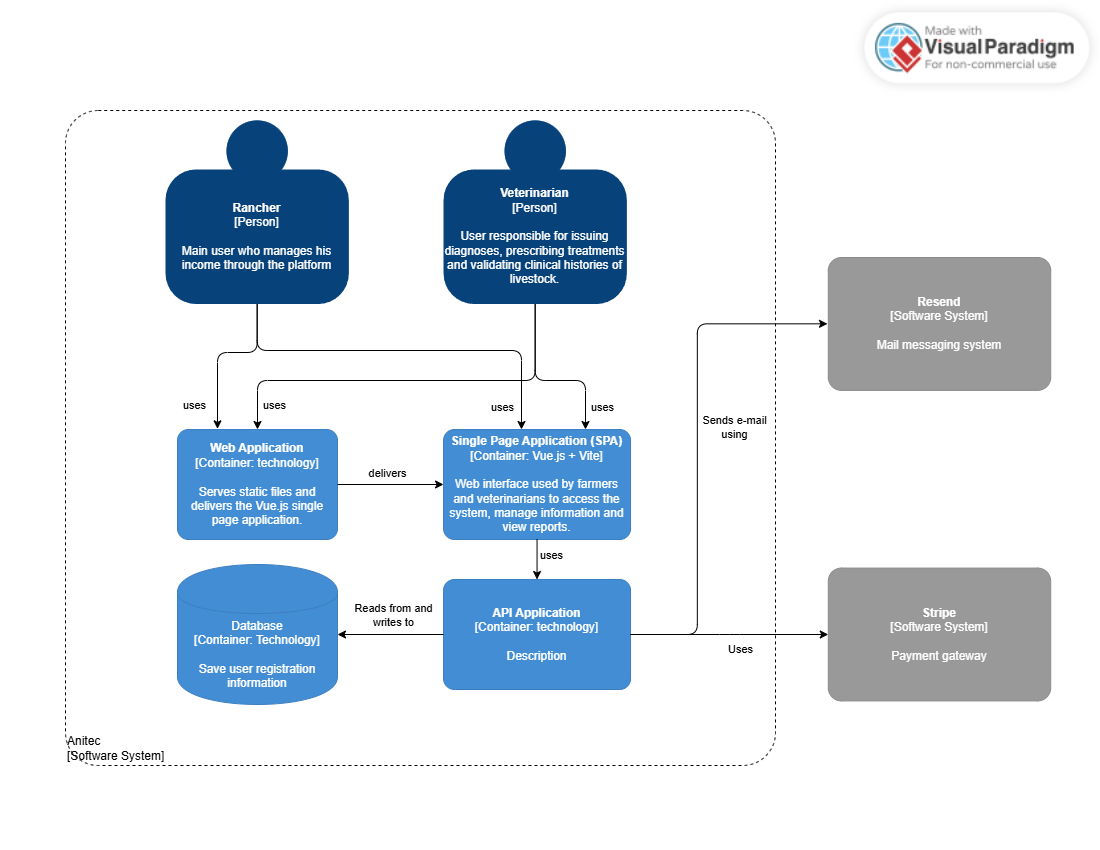
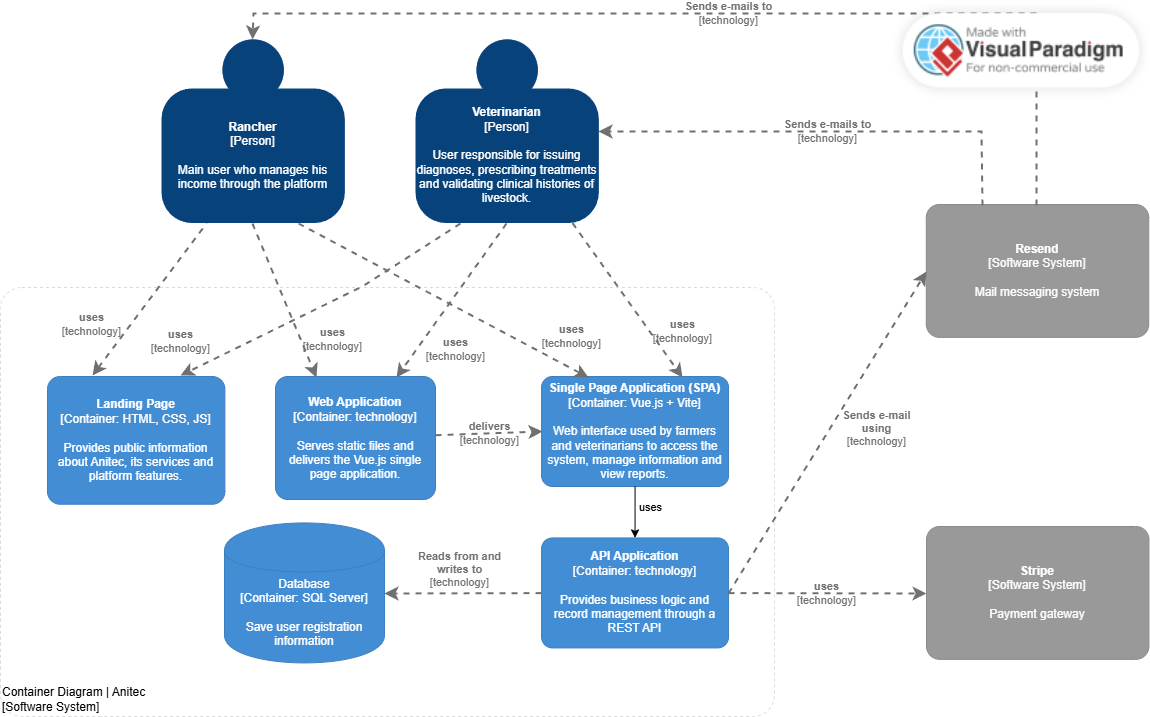
docs: add diagrams and update content for chapter 4

diff --git a/markdown/content/chapter-4/4-6-domain-driven-software-architecture.md b/markdown/content/chapter-4/4-6-domain-driven-software-architecture.md
@@ -126,6 +126,7 @@ Enlace para acceder al [EventStorming](https://miro.com/welcomeonboard/T1gvUmlKR
 
 ## 4.6.2. Software Architecture Context Diagram.
 
+El Software Architecture Context Level Diagram presenta una vista general del sistema Anitec y sus interacciones con usuarios y sistemas externos. Este diagrama permite identificar los principales actores de la plataforma, así como los servicios externos utilizados para funcionalidades como procesamiento de pagos y envío de correos electrónicos.
 
 <div align="center">
   <p>
@@ -139,6 +140,8 @@ Enlace para acceder al [EventStorming](https://miro.com/welcomeonboard/T1gvUmlKR
 
 ## 4.6.3. Software Architecture Container Diagrams.
 
+El  Software Architecture Container Diagram permite visualizar la descomposición interna del sistema de gestión ganadera en unidades técnicas desplegables. Se presenta una infraestructura donde el Rancher y el Veterinarian interactúan con una Single Page Application (SPA) de Vue.js y Vite, la cual es entregada por una Web Application y complementada por una Landing Page informativa. Esta estructura se explica mediante el flujo de datos hacia una API Application que procesa la lógica del negocio, almacena información en una base de datos SQL Server y se integra con servicios externos como Stripe para la gestión de pagos y Resend para la comunicación por mensajería.
+
 <div align="center">
   <p>
     <b>Diagrama de Contenedores C4 - AniTec</b>
@@ -151,6 +154,23 @@ Enlace para acceder al [EventStorming](https://miro.com/welcomeonboard/T1gvUmlKR
 
 ## 4.6.4. Software Architecture Components Diagrams.
 
+Los Software Architecture Component Diagrams presentan la descomposición interna de los principales contenedores del sistema, permitiendo identificar sus componentes, responsabilidades e interacciones. Estos diagramas facilitan la comprensión de la organización lógica de la solución y las tecnologías utilizadas en su implementación.
+
+<br>
+
+El siguiente Diagrama de Componentes descompone el contenedor de la API Application de AniTec para detallar la lógica interna del sistema bajo un enfoque de Bounded Contexts. Se ilustra cómo la Single Page Application (SPA) se comunica mediante HTTPS/JSON directamente con módulos independientes como IAM (responsable de la seguridad y la gestión de suscripciones con Stripe), Animal Management, Health Management, Event management, Financial Management y Reporting. Cada componente, construido con ASP.NET Core y Entity Framework Core, encapsula las reglas de negocio para la gestión ganadera y coordina la persistencia en SQL Server, integrándose además con Resend para las notificaciones por e-mail.
+
+<div align="center">
+  <p>
+    <b>Diagrama de Componentes - API Application - AniTec</b>
+  </p>
+  <img src="../../assets/chapter-4/Diagrama-Componentes-API-AniTec.png" alt="C4-AutenticacionBC" width="600">
+  <p>
+    <i><b>Fuente</b>: Elaboración propia.</i>
+  </p>
+</div>
+
+d
 
 <div align="center">
   <p>
